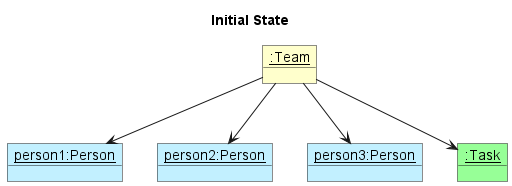
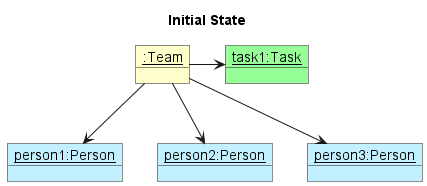
Update assign random section in DG

diff --git a/docs/DeveloperGuide.md b/docs/DeveloperGuide.md
@@ -388,15 +388,15 @@ The `Team` will contain multiple `Person` objects (representing team members).
 
 ![RandomlyAssignTaskState0](images/RandomlyAssignTaskState0.png)
 
-Step 2. The user executes the command `assign_task_rand 1` to assign the first (and only) `Task` randomly to any team
+Step 2. The user executes the command `assign random 1` to assign the first (and only) `Task` randomly to any team
 member. As none of the team members have been added, all of them are candidates for random assignment. One of them will
-be randomly assigned the task.
+be randomly assigned the task (see <span style="color:red">red arrow</span>).
 
 ![RandomlyAssignTaskState1](images/RandomlyAssignTaskState1.png)
 
-Step 3. The user may want to assign a second team member to the task, hence executing `assign_task_rand 1` again. The
+Step 3. The user may want to assign a second team member to the task, hence executing `assign random 1` again. The
 team member who has previously been allocated will not be considered. Similar to above, one more team member will be
-randomly allocated the task.
+randomly allocated the task (see <span style="color:red">red arrow</span>).
 
 ![RandomlyAssignTaskState2](images/RandomlyAssignTaskState2.png)
 
